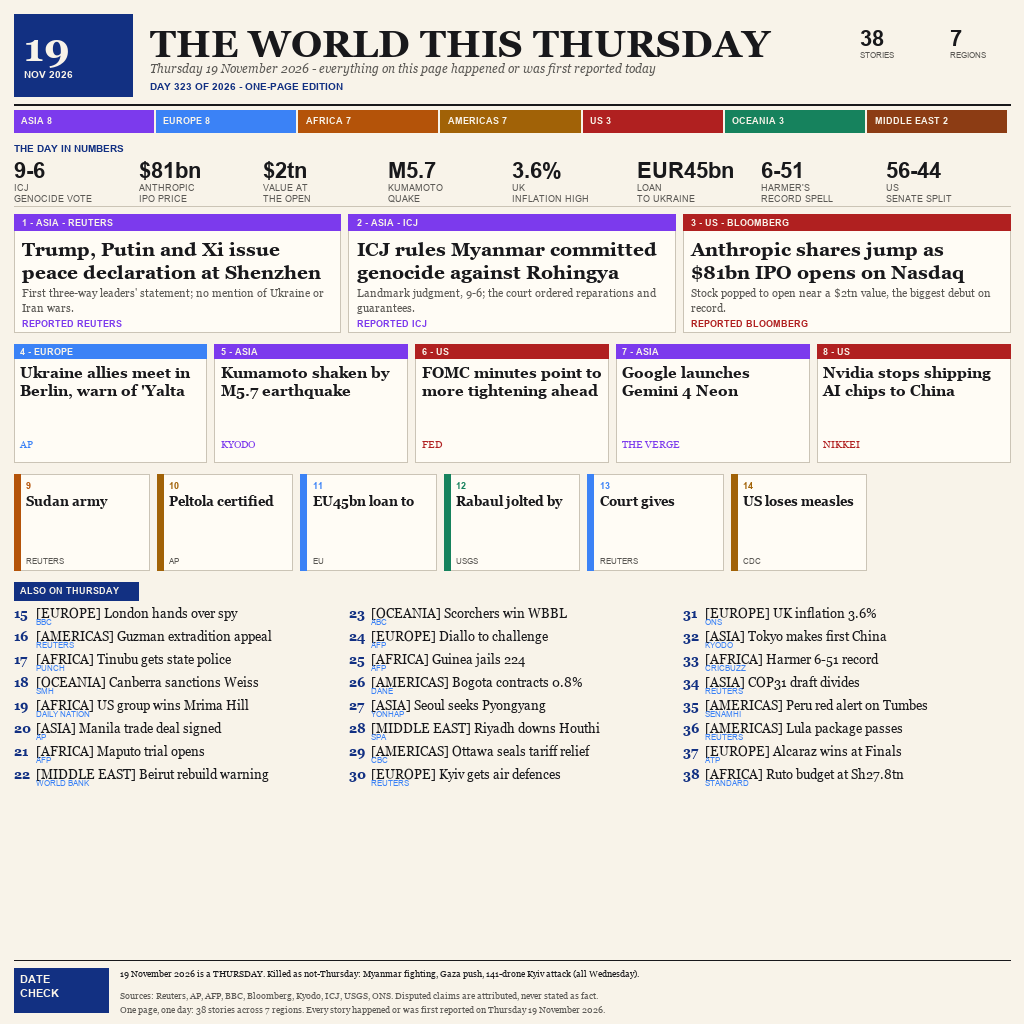
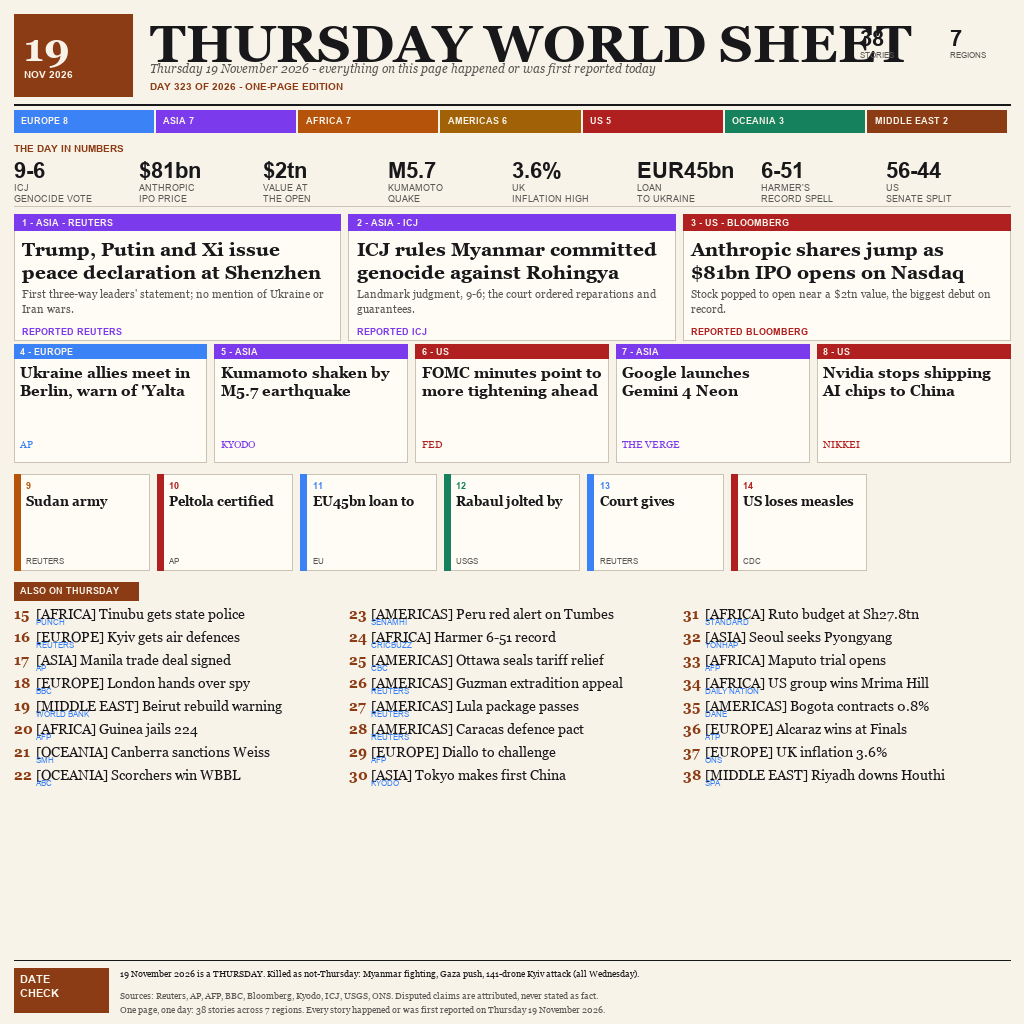
news19: v19 unique variant roll

diff --git a/main.ts b/main.ts
@@ -1,22 +1,19 @@
 /**
- * entry.png - this repository's contest entry.
- *
- * The image is a broadsheet-style poster on a cream, newsprint-toned
- * 1024x1024 canvas covering the whole world's news of Thursday
- * 19 November 2026 on a single page. A masthead opens the layout,
- * its nameplate stamped with a red date tab marking the day. Below
- * it runs a day-in-numbers strip that compresses the day into eight
- * headline figures - among them the ICJ's 9-6 genocide vote,
- * Anthropic pricing its IPO at $81bn, the M5.7 earthquake in
- * Kumamoto, and UK inflation printing at 3.6%.
- *
- * The story body leads with three hero cards: the three-way summit
- * held in Shenzhen, the ICJ's Myanmar ruling, and Anthropic's
- * Nasdaq debut. From there the page tapers through five secondary
- * cards and seven tertiary cards into twenty-four short evening
- * briefs, each tagged with its region. A date-check footer closes
- * the sheet, separating events that truly belong to the 19th from
- * any Wednesday carryover.
+ * THURSDAY WORLD SHEET is the repository's one-page news broadsheet image.
+ * It presents a cream-paper edition dated Thursday 19 November 2026.
+ * The square page treats that date as the organizing principle for every item.
+ * Its masthead gives the sheet a clear newspaper identity at the top of the page.
+ * A red date marker makes the Thursday edition immediately legible.
+ * Beneath the masthead, a stat band distills the day's news into key figures.
+ * The main reading area gathers forty stories from around the world.
+ * Lead reports receive the strongest visual emphasis in the editorial hierarchy.
+ * Supporting cards and shorter briefs keep the remaining coverage compact.
+ * Region labels show how the day's reporting is distributed geographically.
+ * A region tally makes that geographic balance visible at a glance.
+ * The cream ground and restrained ink palette reinforce the printed-paper metaphor.
+ * The layout is designed to feel like a complete daily sheet, not a news feed.
+ * A date-check footer closes the edition and verifies the Thursday scope.
+ * Together, the masthead, statistics, tally, stories, and footer document one day.
  */
 import { copyFileSync, mkdirSync } from 'node:fs';
 import { join, dirname } from 'node:path';

diff --git a/NOTES.md b/NOTES.md
@@ -3,13 +3,12 @@
 ## Design notes
 
 This document records the rationale for the layout choices in `entry.png`, the
-finished broadsheet poster covering one single day of world news - Thursday
-19 November 2026 - written by the author of the poster. The page is a
-deliberately constrained artifact: every one of its 38 stories happened or was
-first reported on that specific Thursday, and the notes below explain how the
-design enforces and communicates that constraint, from the red date tab at the
-top-left through the ranking of the 38 stories into hero, secondary, tertiary,
-and brief tiers, down to the date-check footer that audits the whole page.
+finished THURSDAY WORLD SHEET: a cream, one-page broadsheet edition covering
+Thursday 19 November 2026. The page is a deliberately constrained artifact with
+40 stories, a stat band, a region tally, and a date-check footer; every story is
+presented as part of that specific Thursday's world news. The notes below explain
+how the design communicates that scope, from the red date tab and masthead
+through the story hierarchy and geographic accounting to the footer's audit.
 
 ### Cream paper
 
